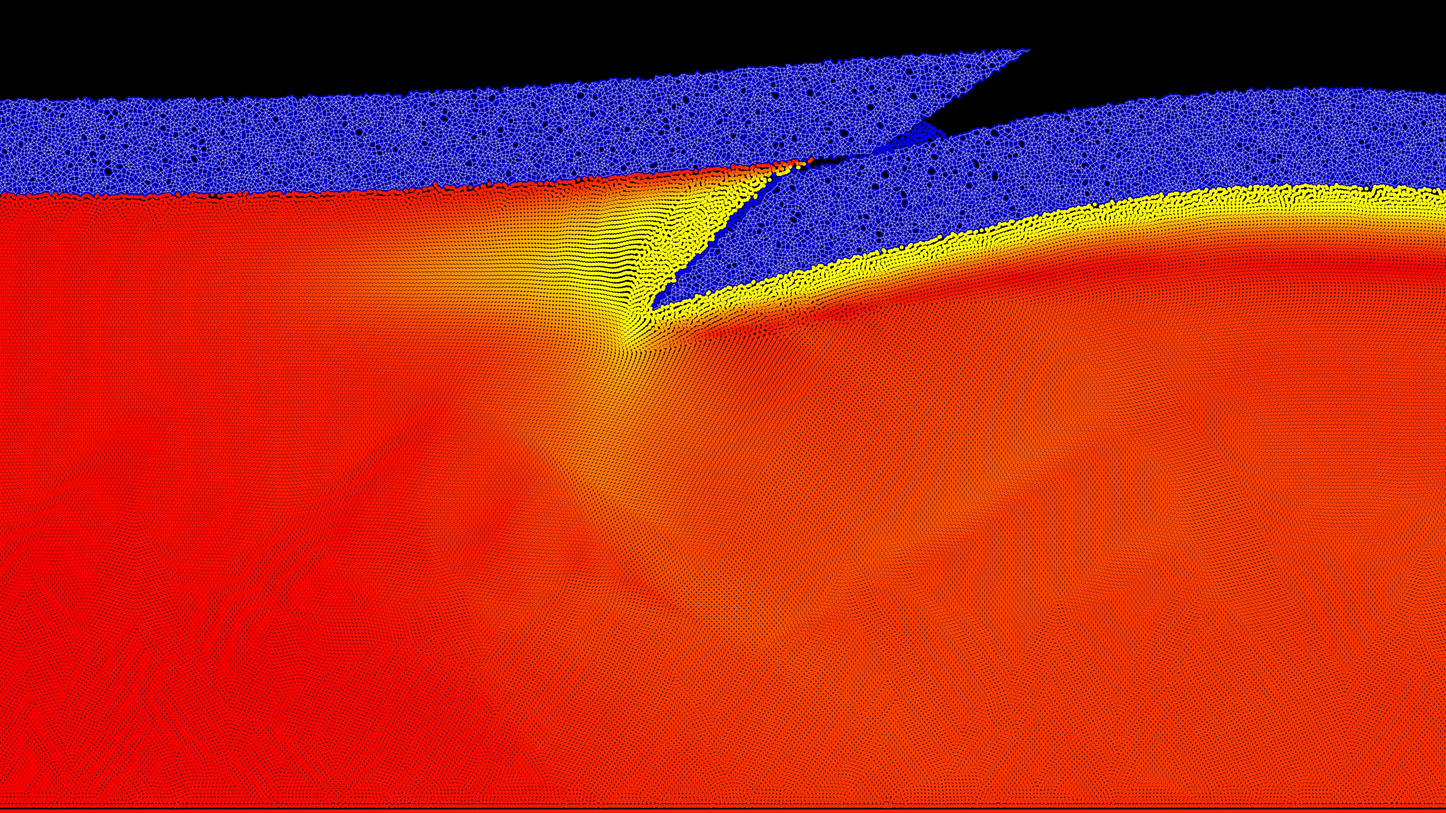
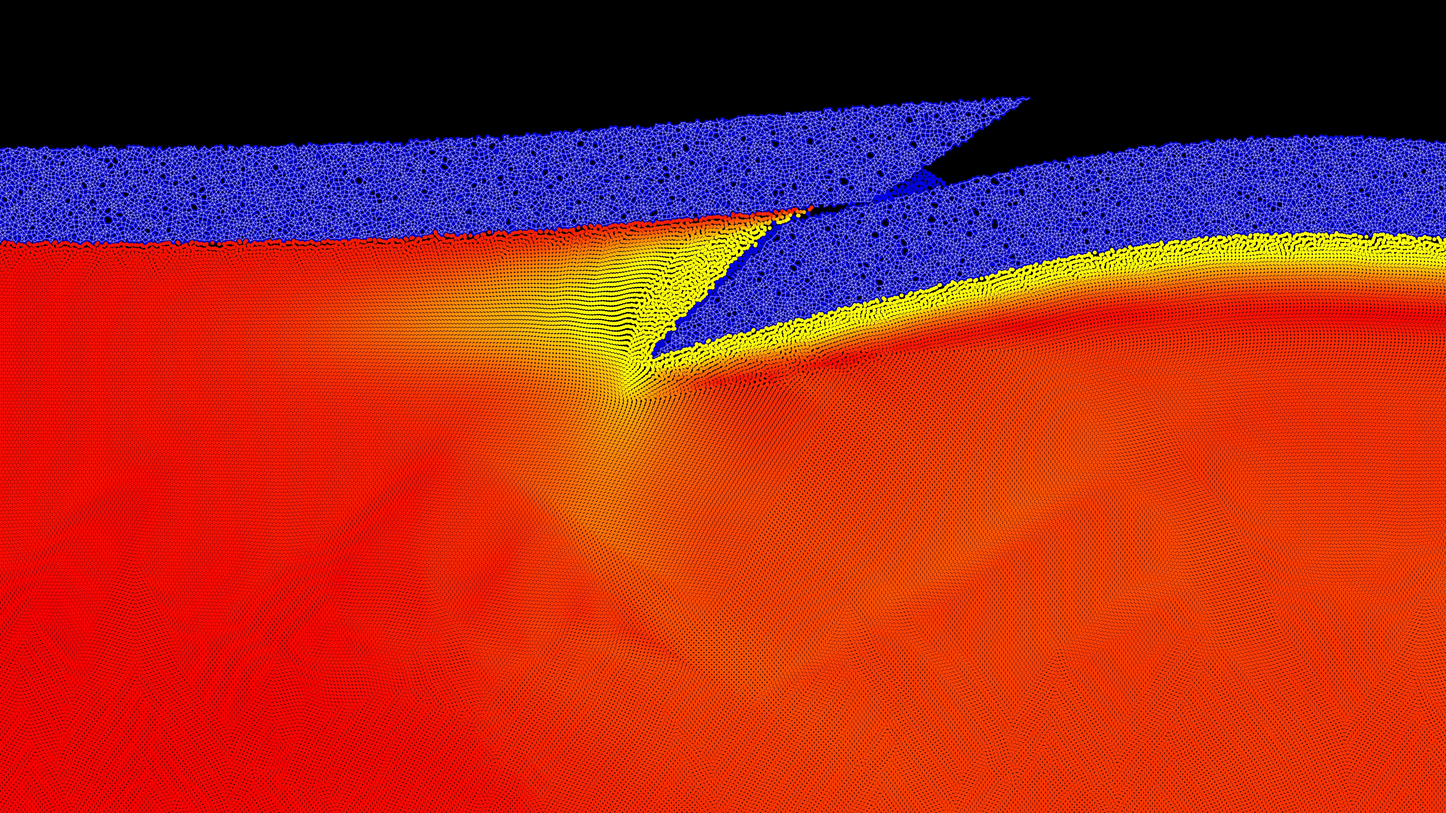
Sweep frames: lift crop bottom to y=10 km, clear of the floor boundary layer

diff --git a/README.md b/README.md
@@ -22,7 +22,8 @@ block so the black sky in the render frames meets the page with no seam, and its
 is the one deliberate exception to the layout width below: it spans the full viewport.
 
 The ten frames in `assets/img/c8/` are evenly spaced across run c8 (600x20 km plate, 30 deg wedge,
-190,004 particles, 200 km of convergence), all sharing one 16:9 crop of x 150-450 km, y 0-168.75 km,
+190,004 particles, 200 km of convergence), all sharing one 16:9 crop of x 150-450 km, y 10-178.75 km (the bottom lifted clear of the
+floor, whose boundary layer was visible at y = 0),
 rendered by `../9.2/geometrytest/frames_16x9.py`. Two widths per frame, 3840 and 1920, so `srcset`
 can spare phones the desktop file. About 39 MB for the desktop set, which is why frame 0 ships in
 the HTML and the other nine are attached by script after first paint.
